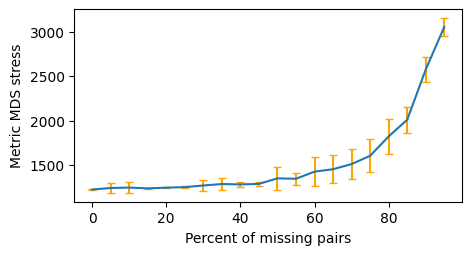
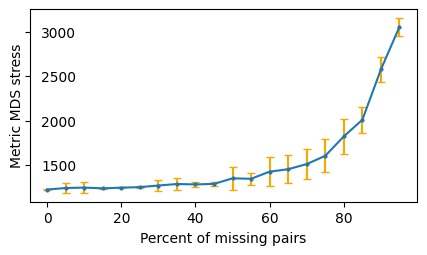
Update label score plot

diff --git a/plot.py b/plot.py
@@ -256,11 +256,15 @@ def plot_score_with_missing_pairs(score_file_name, out_name="score.png"):
         yerr="stress_std",
         ax=ax,
         legend=False,
+        marker="o",
+        markersize=2,
         # color="C1",
         capsize=3,
         capthick=1,
         ecolor="orange",
     )
+
+    ax.tick_params(axis="y", direction="out", pad=-37)
     ax.set_xlabel("Percent of missing pairs")
     ax.set_ylabel("Metric MDS stress")
     fig.savefig(out_name, bbox_inches="tight")
